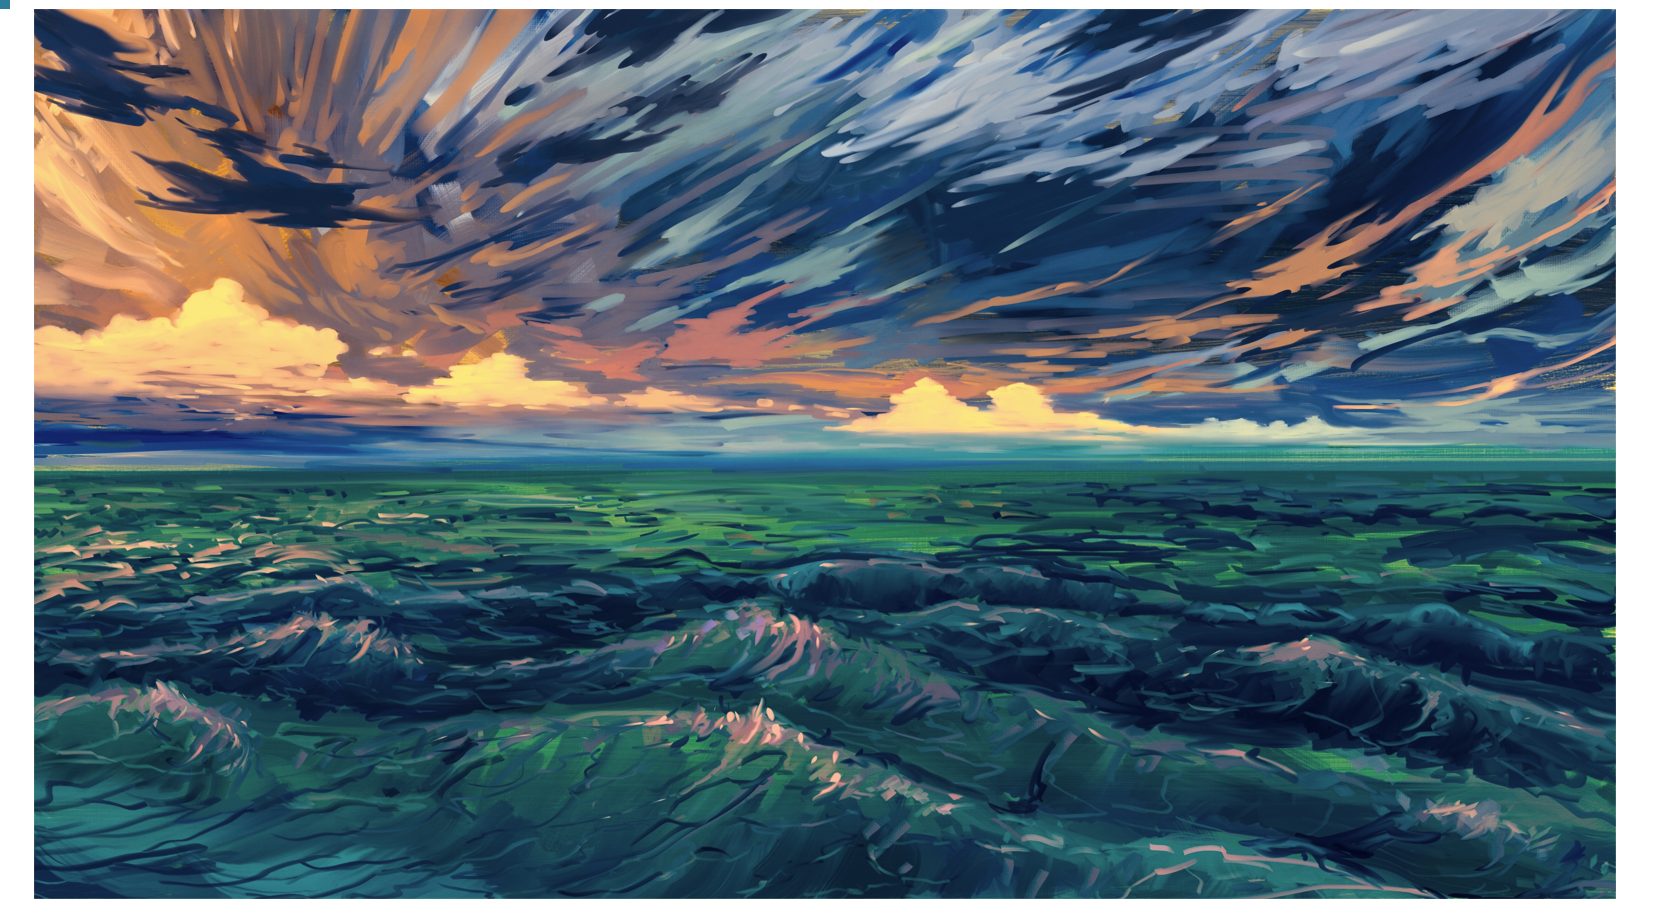
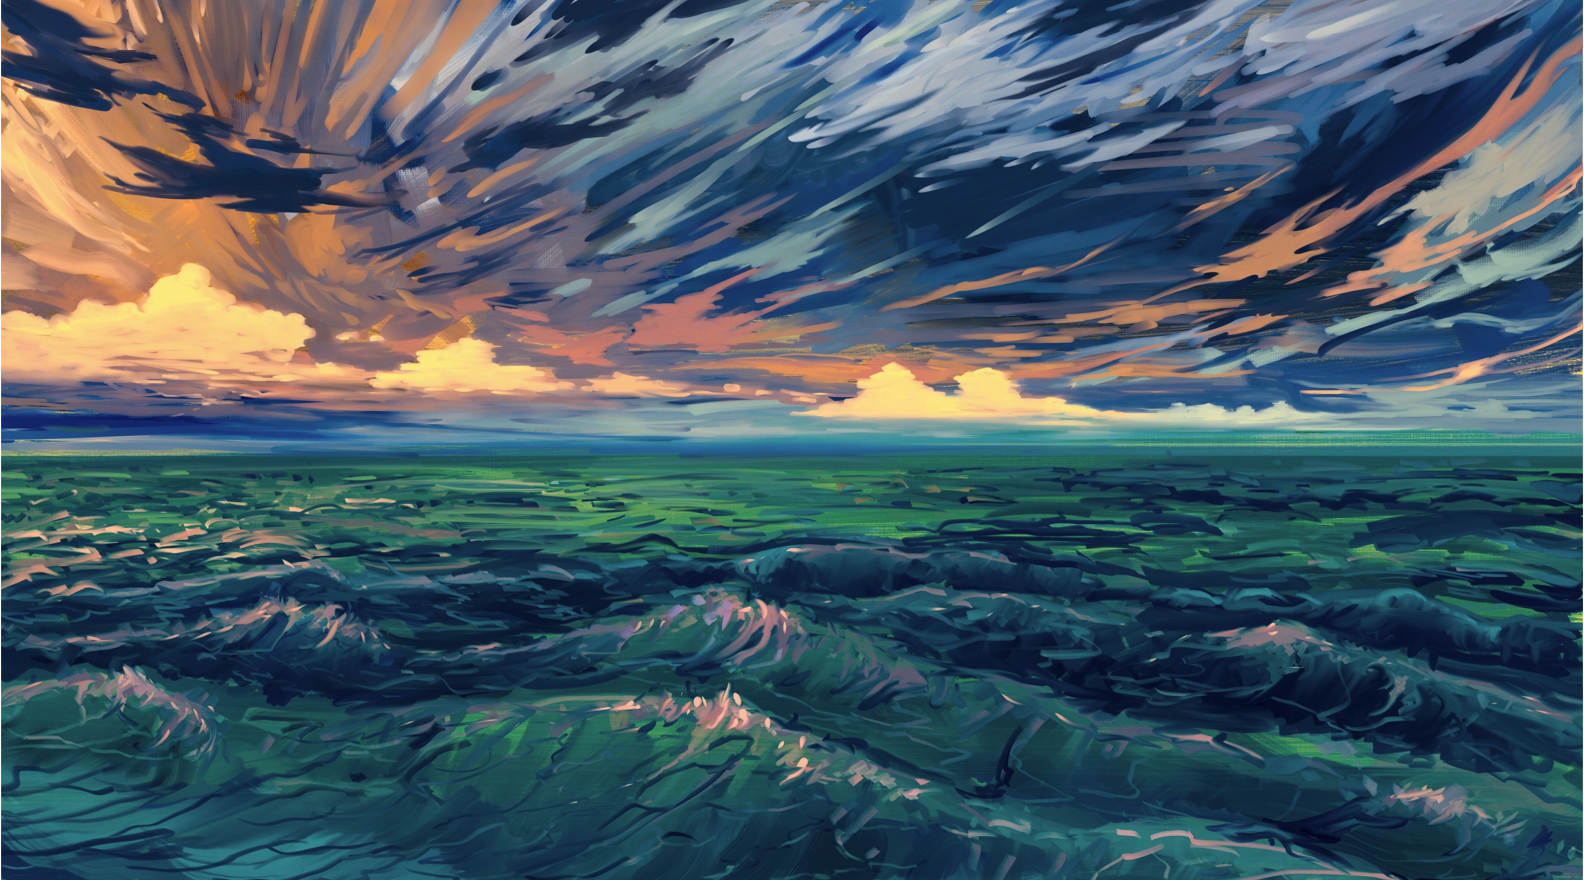
background

diff --git a/CSS/login.css b/CSS/login.css
@@ -76,7 +76,7 @@
 		    }
 		}
 body{
-    background: url(../IMG/岛.png);
+    background: url(../IMG/GB.jpg);
 }
 /* 表格 */
 form{
